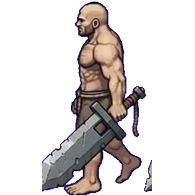
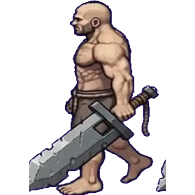
BUILD 434: widen sword side views (1.25x) to match front/back bulk

Changed region(s): [[0.1231, 0.0, 0.8615, 1.0]]

diff --git a/index.html b/index.html
@@ -1,1 +1,1 @@
-<!doctype html><html lang="en"><head><!-- BUILD309-VIEWPORT-FIX-MARKER --><meta charset="UTF-8"><meta name="viewport" content="width=device-width, initial-scale=1.0, maximum-scale=1.0, user-scalable=no"><meta name="theme-color" content="#17362e"><link rel="icon" type="image/svg+xml" href="favicon.svg"><meta name="description" content="Explore Mosslight Crossing in the Adventure Game field journal."><title>Adventure Game — Mosslight Crossing</title></head><body><div id="root"></div><script>window.__AG_BUILD="433";(function(){var shown=false;function code(m){var h=0,s=window.__AG_BUILD+"|"+m;for(var i=0;i<s.length;i++){h=(Math.imul(h,31)+s.charCodeAt(i))|0;}return "AG"+window.__AG_BUILD+"-"+(h>>>0).toString(36).toUpperCase().padStart(6,"0").slice(-5);}function show(m,k){if(shown||window.__agBooted)return;shown=true;var d=document.createElement("div");d.id="ag-boot-crash";var p=document.createElement("div");p.className="ag-boot-panel";var t=document.createElement("div");t.className="ag-boot-title";t.textContent="\u26a0 GAME FAILED TO START";var c=document.createElement("div");c.className="ag-boot-code";c.textContent=code(String(m));var g=document.createElement("div");g.className="ag-boot-msg";g.textContent=String(m).slice(0,300);var n=document.createElement("div");n.className="ag-boot-kind";n.textContent=k;var b=document.createElement("button");b.textContent="Reload game";b.onclick=function(){location.reload();};p.appendChild(t);p.appendChild(c);p.appendChild(g);p.appendChild(n);p.appendChild(b);d.appendChild(p);document.body.appendChild(d);}window.addEventListener("error",function(e){if(e.target&&e.target!==window)return;show(e.message||"script error","boot error");},true);window.addEventListener("unhandledrejection",function(e){var r=e.reason;show((r&&(r.message||r))||"rejection","boot rejection");});setTimeout(function(){if(!window.__agBooted)show("The game did not finish loading in time.","load timeout");},20000);})();</script><style>#ag-boot-crash{position:fixed;inset:0;z-index:99999;background:#0d1a16;display:flex;align-items:center;justify-content:center;padding:24px}#ag-boot-crash .ag-boot-panel{max-width:420px;width:100%;background:#14261f;border:1px solid #2c4a3e;border-radius:12px;padding:24px;text-align:center;color:#e8f0e9;font-family:system-ui,sans-serif}#ag-boot-crash .ag-boot-title{font-size:20px;font-weight:800;letter-spacing:.5px}#ag-boot-crash .ag-boot-code{font-family:monospace;font-size:22px;color:#ffd75e;margin:12px 0;letter-spacing:1px}#ag-boot-crash .ag-boot-msg{font-size:13px;color:#b9c9bd;word-break:break-word}#ag-boot-crash .ag-boot-kind{font-size:11px;color:#7d8f83;margin-top:8px;text-transform:uppercase;letter-spacing:1px}#ag-boot-crash button{margin-top:16px;background:#e8a33d;border:0;border-radius:8px;padding:10px 22px;font-size:15px;font-weight:700;color:#231603;cursor:pointer}</style><script type="module" src="/src/main.tsx"></script></body></html>
+<!doctype html><html lang="en"><head><!-- BUILD309-VIEWPORT-FIX-MARKER --><meta charset="UTF-8"><meta name="viewport" content="width=device-width, initial-scale=1.0, maximum-scale=1.0, user-scalable=no"><meta name="theme-color" content="#17362e"><link rel="icon" type="image/svg+xml" href="favicon.svg"><meta name="description" content="Explore Mosslight Crossing in the Adventure Game field journal."><title>Adventure Game — Mosslight Crossing</title></head><body><div id="root"></div><script>window.__AG_BUILD="434";(function(){var shown=false;function code(m){var h=0,s=window.__AG_BUILD+"|"+m;for(var i=0;i<s.length;i++){h=(Math.imul(h,31)+s.charCodeAt(i))|0;}return "AG"+window.__AG_BUILD+"-"+(h>>>0).toString(36).toUpperCase().padStart(6,"0").slice(-5);}function show(m,k){if(shown||window.__agBooted)return;shown=true;var d=document.createElement("div");d.id="ag-boot-crash";var p=document.createElement("div");p.className="ag-boot-panel";var t=document.createElement("div");t.className="ag-boot-title";t.textContent="\u26a0 GAME FAILED TO START";var c=document.createElement("div");c.className="ag-boot-code";c.textContent=code(String(m));var g=document.createElement("div");g.className="ag-boot-msg";g.textContent=String(m).slice(0,300);var n=document.createElement("div");n.className="ag-boot-kind";n.textContent=k;var b=document.createElement("button");b.textContent="Reload game";b.onclick=function(){location.reload();};p.appendChild(t);p.appendChild(c);p.appendChild(g);p.appendChild(n);p.appendChild(b);d.appendChild(p);document.body.appendChild(d);}window.addEventListener("error",function(e){if(e.target&&e.target!==window)return;show(e.message||"script error","boot error");},true);window.addEventListener("unhandledrejection",function(e){var r=e.reason;show((r&&(r.message||r))||"rejection","boot rejection");});setTimeout(function(){if(!window.__agBooted)show("The game did not finish loading in time.","load timeout");},20000);})();</script><style>#ag-boot-crash{position:fixed;inset:0;z-index:99999;background:#0d1a16;display:flex;align-items:center;justify-content:center;padding:24px}#ag-boot-crash .ag-boot-panel{max-width:420px;width:100%;background:#14261f;border:1px solid #2c4a3e;border-radius:12px;padding:24px;text-align:center;color:#e8f0e9;font-family:system-ui,sans-serif}#ag-boot-crash .ag-boot-title{font-size:20px;font-weight:800;letter-spacing:.5px}#ag-boot-crash .ag-boot-code{font-family:monospace;font-size:22px;color:#ffd75e;margin:12px 0;letter-spacing:1px}#ag-boot-crash .ag-boot-msg{font-size:13px;color:#b9c9bd;word-break:break-word}#ag-boot-crash .ag-boot-kind{font-size:11px;color:#7d8f83;margin-top:8px;text-transform:uppercase;letter-spacing:1px}#ag-boot-crash button{margin-top:16px;background:#e8a33d;border:0;border-radius:8px;padding:10px 22px;font-size:15px;font-weight:700;color:#231603;cursor:pointer}</style><script type="module" src="/src/main.tsx"></script></body></html>
